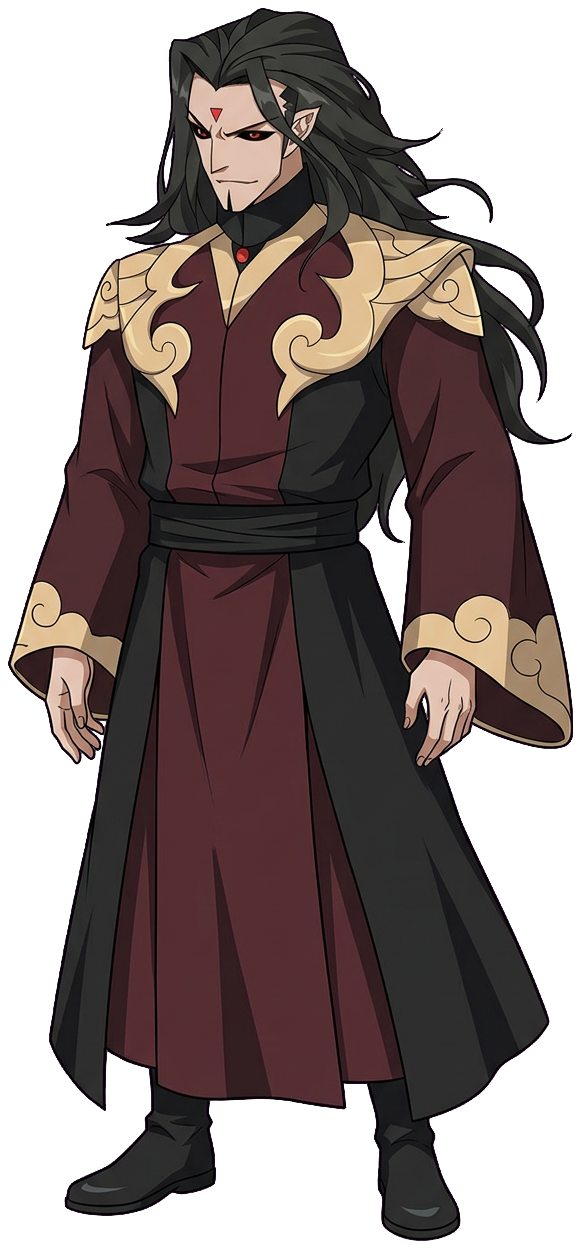
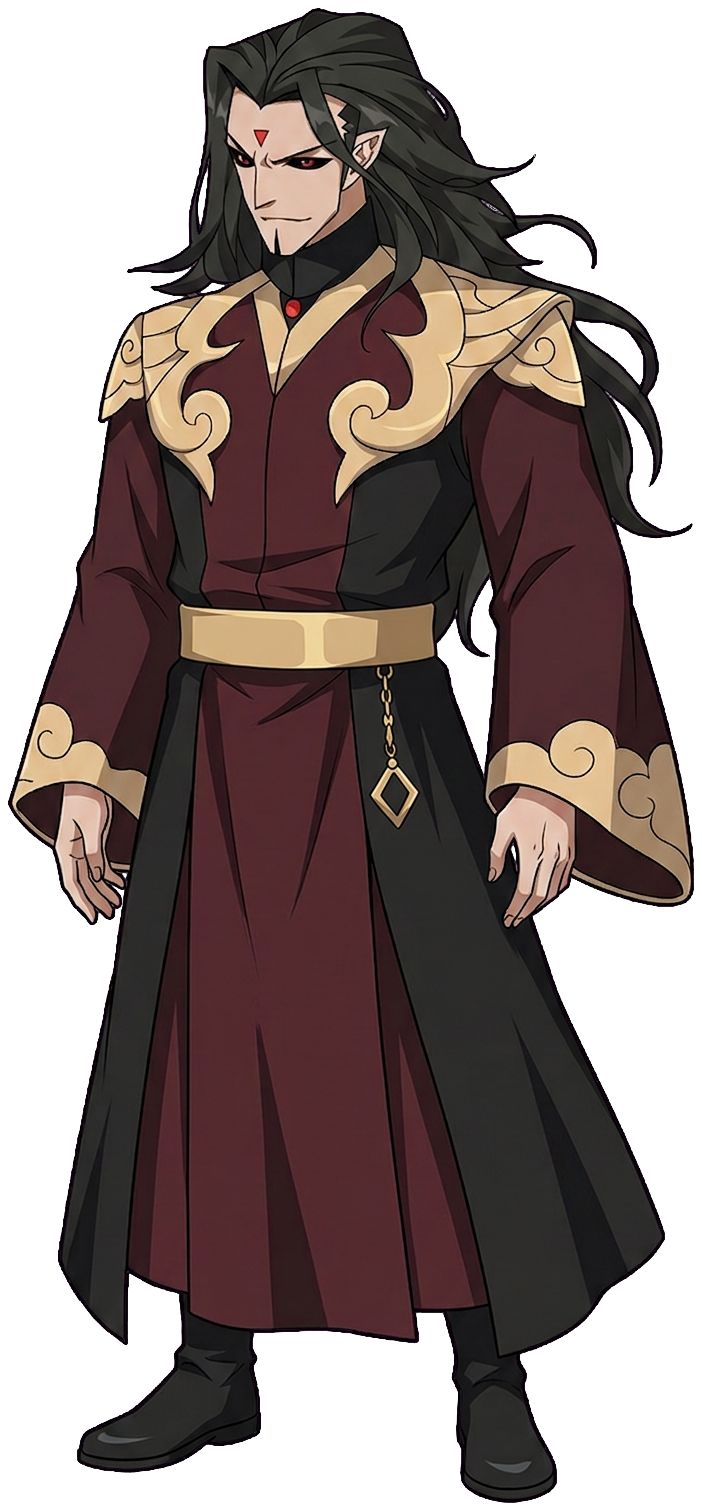
魂殿: 魂灭生腰带修正；副殿主、魂风按漫画417话绘制

diff --git a/dev/design/漫画复核进度.md b/dev/design/漫画复核进度.md
@@ -117,6 +117,10 @@
 | 天冥老妖（冥河盟盟主·半圣） | tianming | 378-08（字幕"天冥宗半圣·天冥老妖"）/09/18 + fandom 漫画图 | 🆕 按漫画新画 ✅ |
 | 骨幽圣者（魂殿二天尊·半圣） | guyou | 375 标题"骨幽圣者"、375-09 字幕"魂殿二天尊"、375-21 全身；378-16 与天冥同阵 | 🆕 按漫画新画 ✅；按"剧情跟漫画"原则改为：漫画380话萧炎1v3中的Boss之一，中途拿三天尊挡刀后被魂族斗圣接走（必定逃脱） |
 | 魂殿三天尊（Shuo Wu 天尊，半圣） | sanzun | 378-10 字幕"魂族三天尊"全身 + fandom 漫画图 | 🆕 按漫画新画 ✅；380话萧炎1v3 Boss之一，被骨幽当挡箭牌击杀 |
+| 魂殿三天尊 旧图 | santz | — | ⚠ 被 sanzun 取代（旧图保留在仓库，游戏改用 sanzun） |
+| 魂灭生（魂殿殿主/魂族族长） | hunmie | 417-07 字幕"魂族族长 魂灭生"/10/11/21 + fandom "Hun Mie Sheng 417" | ✅ 脸发型一致；腰带改为金色宽带+菱形坠（已修） |
+| 魂殿副殿主（魂族副族长） | fudianzhu | 417-07 字幕"魂族副族长"、417-11 | 🆕 按漫画新画 ✅ |
+| 魂风（魂族继承人） | hunfeng | 417-07 字幕"魂族继承人 魂风"、417-10；448话标题"魂风"（萧炎交手→Boss） | 🆕 按漫画新画 ✅ |
 
 ## 用户决定（2026-09-27）
 - 凌影：选A——用第63话蒙面兜帽样子。

diff --git a/dev/design/漫画章节标题.md b/dev/design/漫画章节标题.md
@@ -465,3 +465,5 @@
 - 463: The Promise
 - 464: Swallowing The Di Pill
 - 465: Final Threat
+
+注：魂灭生本人正式登场=417话（413仅影子）；413–416为药族篇。417-07同时登场副殿主、魂风。
